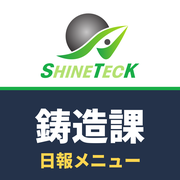
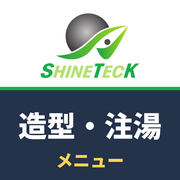
Add files via upload

Changed region(s): [[0.0833, 0.5833, 0.9167, 0.8056], [0.2222, 0.8333, 0.7778, 0.9444]]

diff --git a/index.html b/index.html
@@ -3,14 +3,14 @@
 <head>
 <meta charset="UTF-8">
 <meta name="viewport" content="width=device-width, initial-scale=1, maximum-scale=1">
-<title>鋳造課 日報メニュー</title>
+<title>造型・注湯メニュー</title>
 <link rel="manifest" href="/manifest.webmanifest">
 <meta name="theme-color" content="#24324a">
 <link rel="icon" href="/icon-192.png">
 <link rel="apple-touch-icon" href="/apple-touch-icon.png">
 <meta name="apple-mobile-web-app-capable" content="yes">
 <meta name="mobile-web-app-capable" content="yes">
-<meta name="apple-mobile-web-app-title" content="鋳造課日報">
+<meta name="apple-mobile-web-app-title" content="造型注湯メニュー">
 <style>
 *{box-sizing:border-box}
 html,body,a,button{touch-action:manipulation}
@@ -33,7 +33,7 @@ main{max-width:900px;margin:0 auto;padding:16px;display:grid;gap:16px}
 </style>
 </head>
 <body>
-<header><h1>鋳造課 日報メニュー</h1><p>使う日報を押してください / Pilih laporan harian</p></header>
+<header><h1>造型・注湯メニュー</h1><p>使う日報を押してください / Pilih laporan harian</p></header>
 <main>
   <section class="card">
     <div class="lbl">号機 <span class="small">Mesin</span></div>
